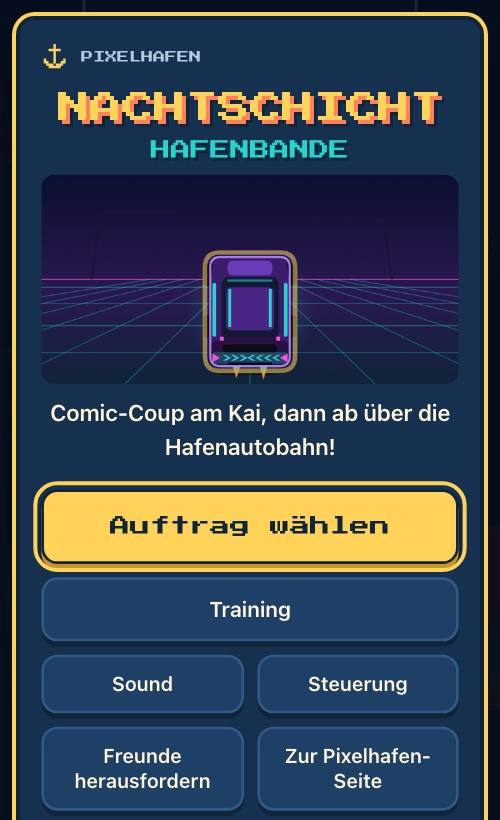
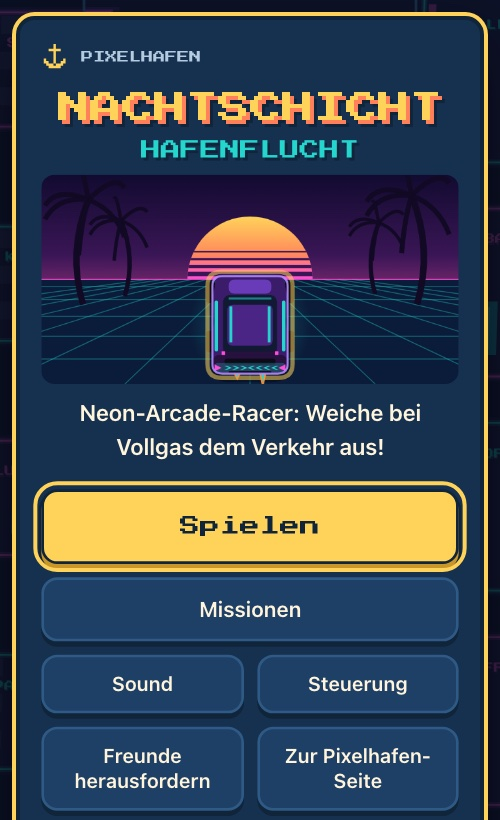
Nachtschicht: Hafenflucht – neue Beschreibung und Bilder (Neon-Racer)

diff --git a/index.html b/index.html
@@ -695,17 +695,17 @@ const SPIELE = [
   },
 
   {
-    titel: 'NACHTSCHICHT: HAFENBANDE',
-    beschreibung: 'Ein überzeichnetes Comic-Arcade-Spiel: Lade im Takt den Impulsschlüssel für ein erfundenes Wertterminal, fang die herausfliegenden Beutetaschen und flitz dann mit deinem violetten Kombi über die Hafenautobahn. Weiche dem Verkehr aus, fahr über leuchtende Pfeilfelder für einen Temposchub und schüttle die Streife ab, bis du Halle 7 erreichst. Drei Aufträge: Containerkai, Neonviertel und Nachthafen, dazu ein Training.',
-    merkmale: ['3 Aufträge', 'Timing-Coup', 'Verfolgungsfahrt', 'Boostfelder', 'Arcade-Musik', 'Training', 'Freunde-Rangliste', 'Retro-Sounds'],
-    steuerung: 'Handy: Finger unten auf die Steuerfläche legen und seitlich ziehen, im Coup tippen. Computer: Pfeiltasten oder A und D, Leertaste im Coup, P für Pause, M für Ton. Boost gibt es über Pfeilfelder auf der Straße.',
+    titel: 'NACHTSCHICHT: HAFENFLUCHT',
+    beschreibung: 'Ein schneller Neon-Arcade-Racer in der Draufsicht: Bei Vollgas durch eine erfundene 80er-Küstenmetropole, vorbei an Palmen, Neonhotels und Hafenlagern. Erkenne Lücken früh, weiche dichtem Verkehr aus, verbinde saubere Überholserien und nimm leuchtende Boostfelder mit. Hauptmodus Neon-Endlos, dazu drei kompakte Missionen mit optionalem Coup-Einstieg und eigener Synthwave-Musik.',
+    merkmale: ['Neon-Endlos', '3 Missionen', 'Boostfelder', 'Überholserien', 'Eigene 80er-Musik', 'Freunde-Rangliste'],
+    steuerung: 'Handy: Finger unten auf die Steuerfläche legen und seitlich ziehen (oder große Links-/Rechts-Knöpfe). Computer: Pfeiltasten oder A und D, Maus auf der Straße ziehen, P für Pause, M für Ton.',
     spielen: 'https://moje9328.github.io/nachtschicht/',
     download: 'https://moje9328.github.io/nachtschicht/index.html',
     dateiname: 'nachtschicht.html',
     bilder: [
-      { datei: 'bilder/nachtschicht-streife.jpg', text: 'Nachtschicht: Der violette Kombi weicht auf der nächtlichen Autobahn Autos aus, hinten folgt eine Streife mit Blaulicht' },
-      { datei: 'bilder/nachtschicht-coup.jpg', text: 'Nachtschicht: Am Kai springt das erfundene Wertterminal auf, eine Beutetasche fliegt in den Kofferraum des Kombis' },
-      { datei: 'bilder/nachtschicht-start.jpg', text: 'Nachtschicht: Startbildschirm mit dem Kombi auf einer Neonstraße und dem Knopf Auftrag wählen' }
+      { datei: 'bilder/nachtschicht-neon.jpg', text: 'Nachtschicht: Der violette Kombi weicht auf dem Neonboulevard zwischen Palmen und Neonhotels dichtem Verkehr aus, vor ihm ein leuchtendes Boostfeld' },
+      { datei: 'bilder/nachtschicht-streife.jpg', text: 'Nachtschicht: Im Lichttunnel folgt eine Streife mit Blaulicht, vorne ein Containerlaster und Kleinwagen' },
+      { datei: 'bilder/nachtschicht-start.jpg', text: 'Nachtschicht: Startbildschirm mit Neonsonne, Palmen und dem Knopf Spielen' }
     ]
   },
 
